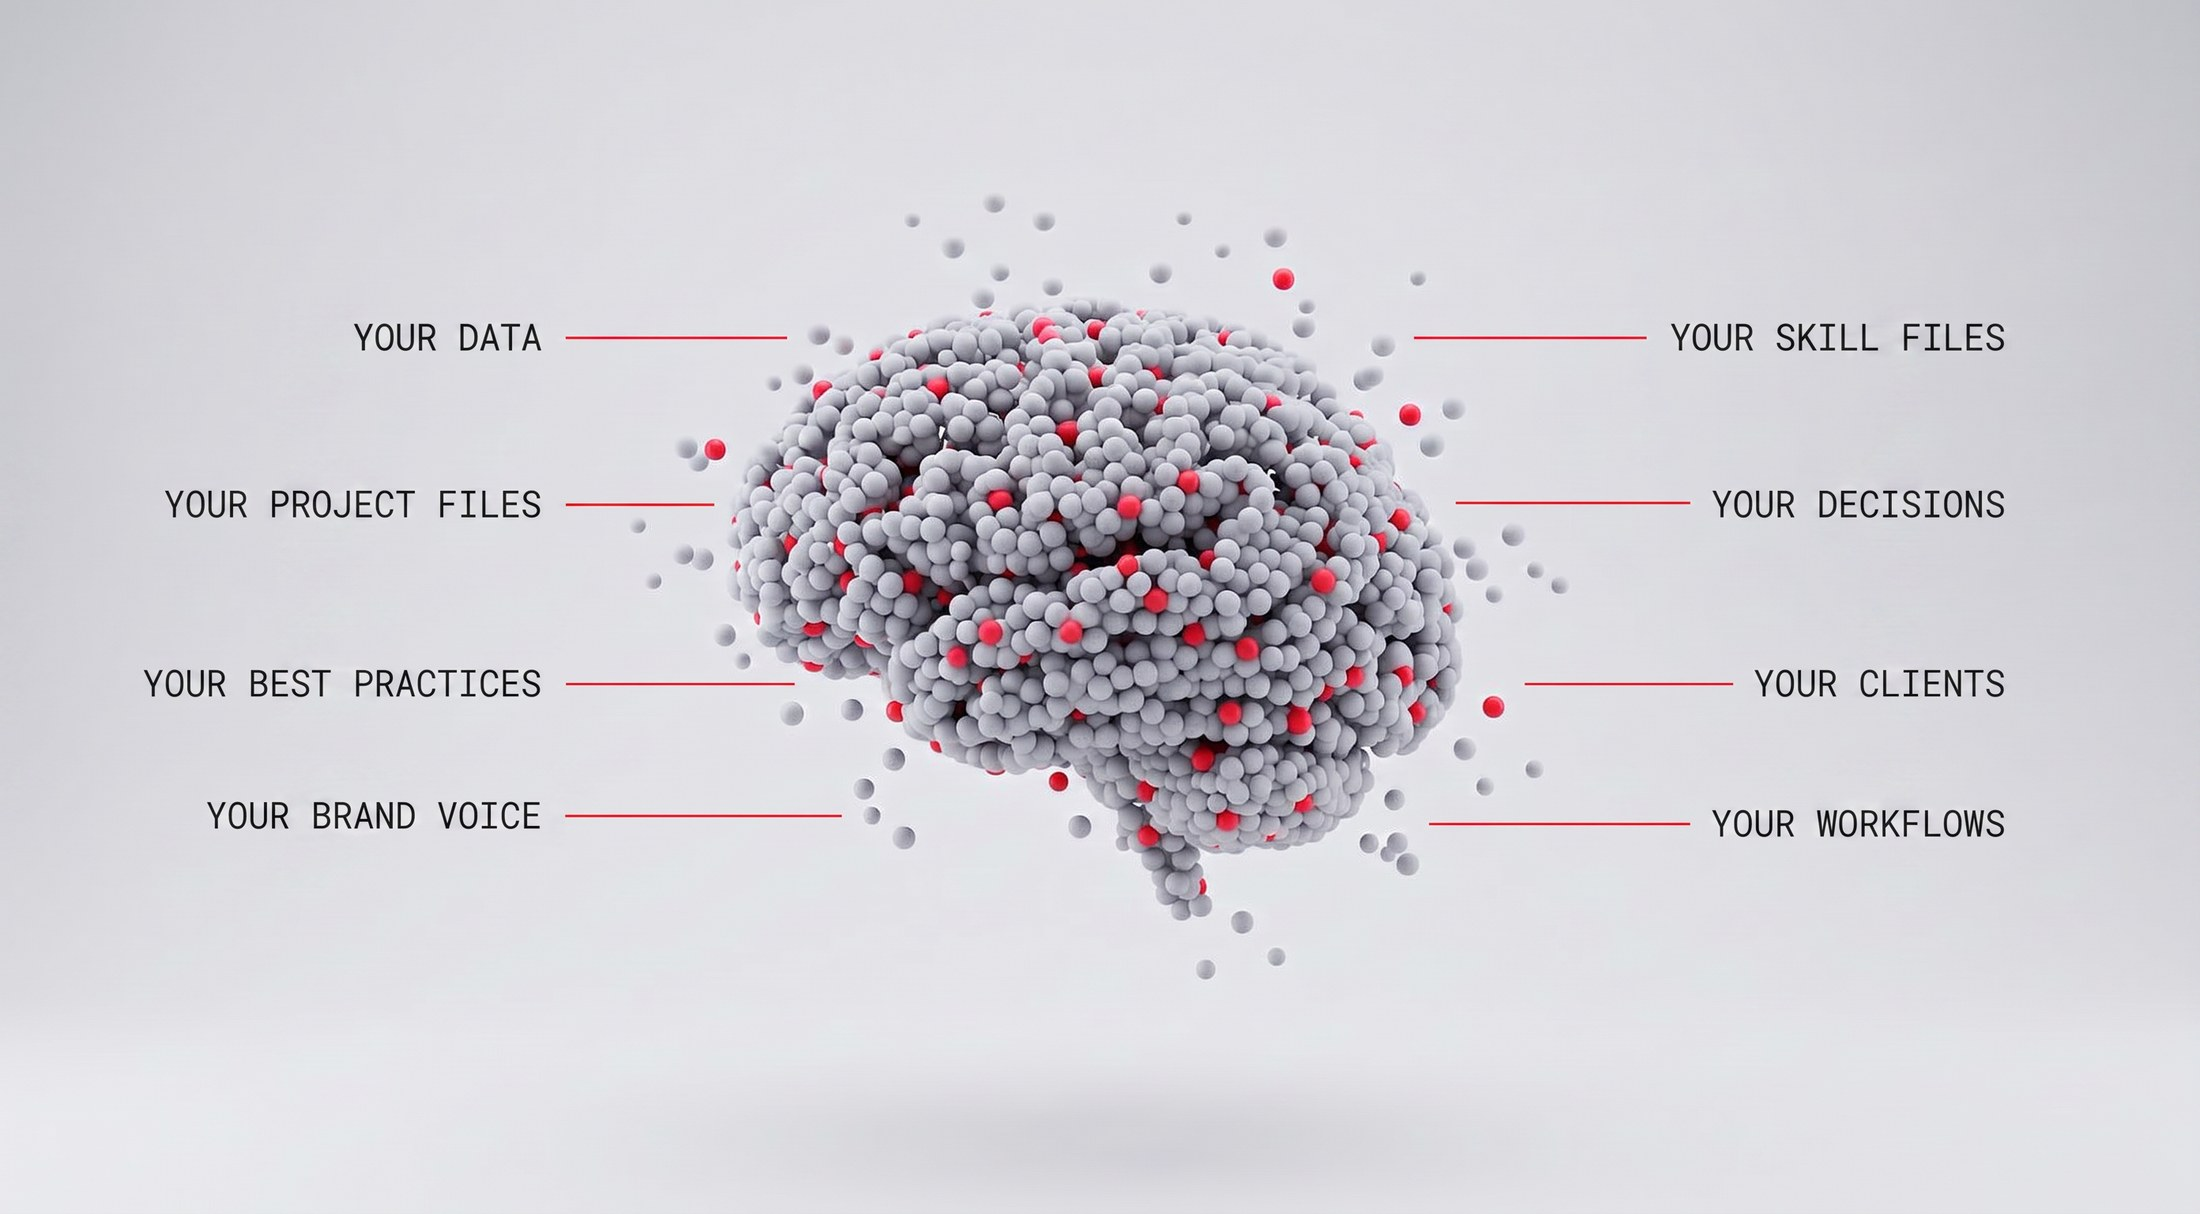
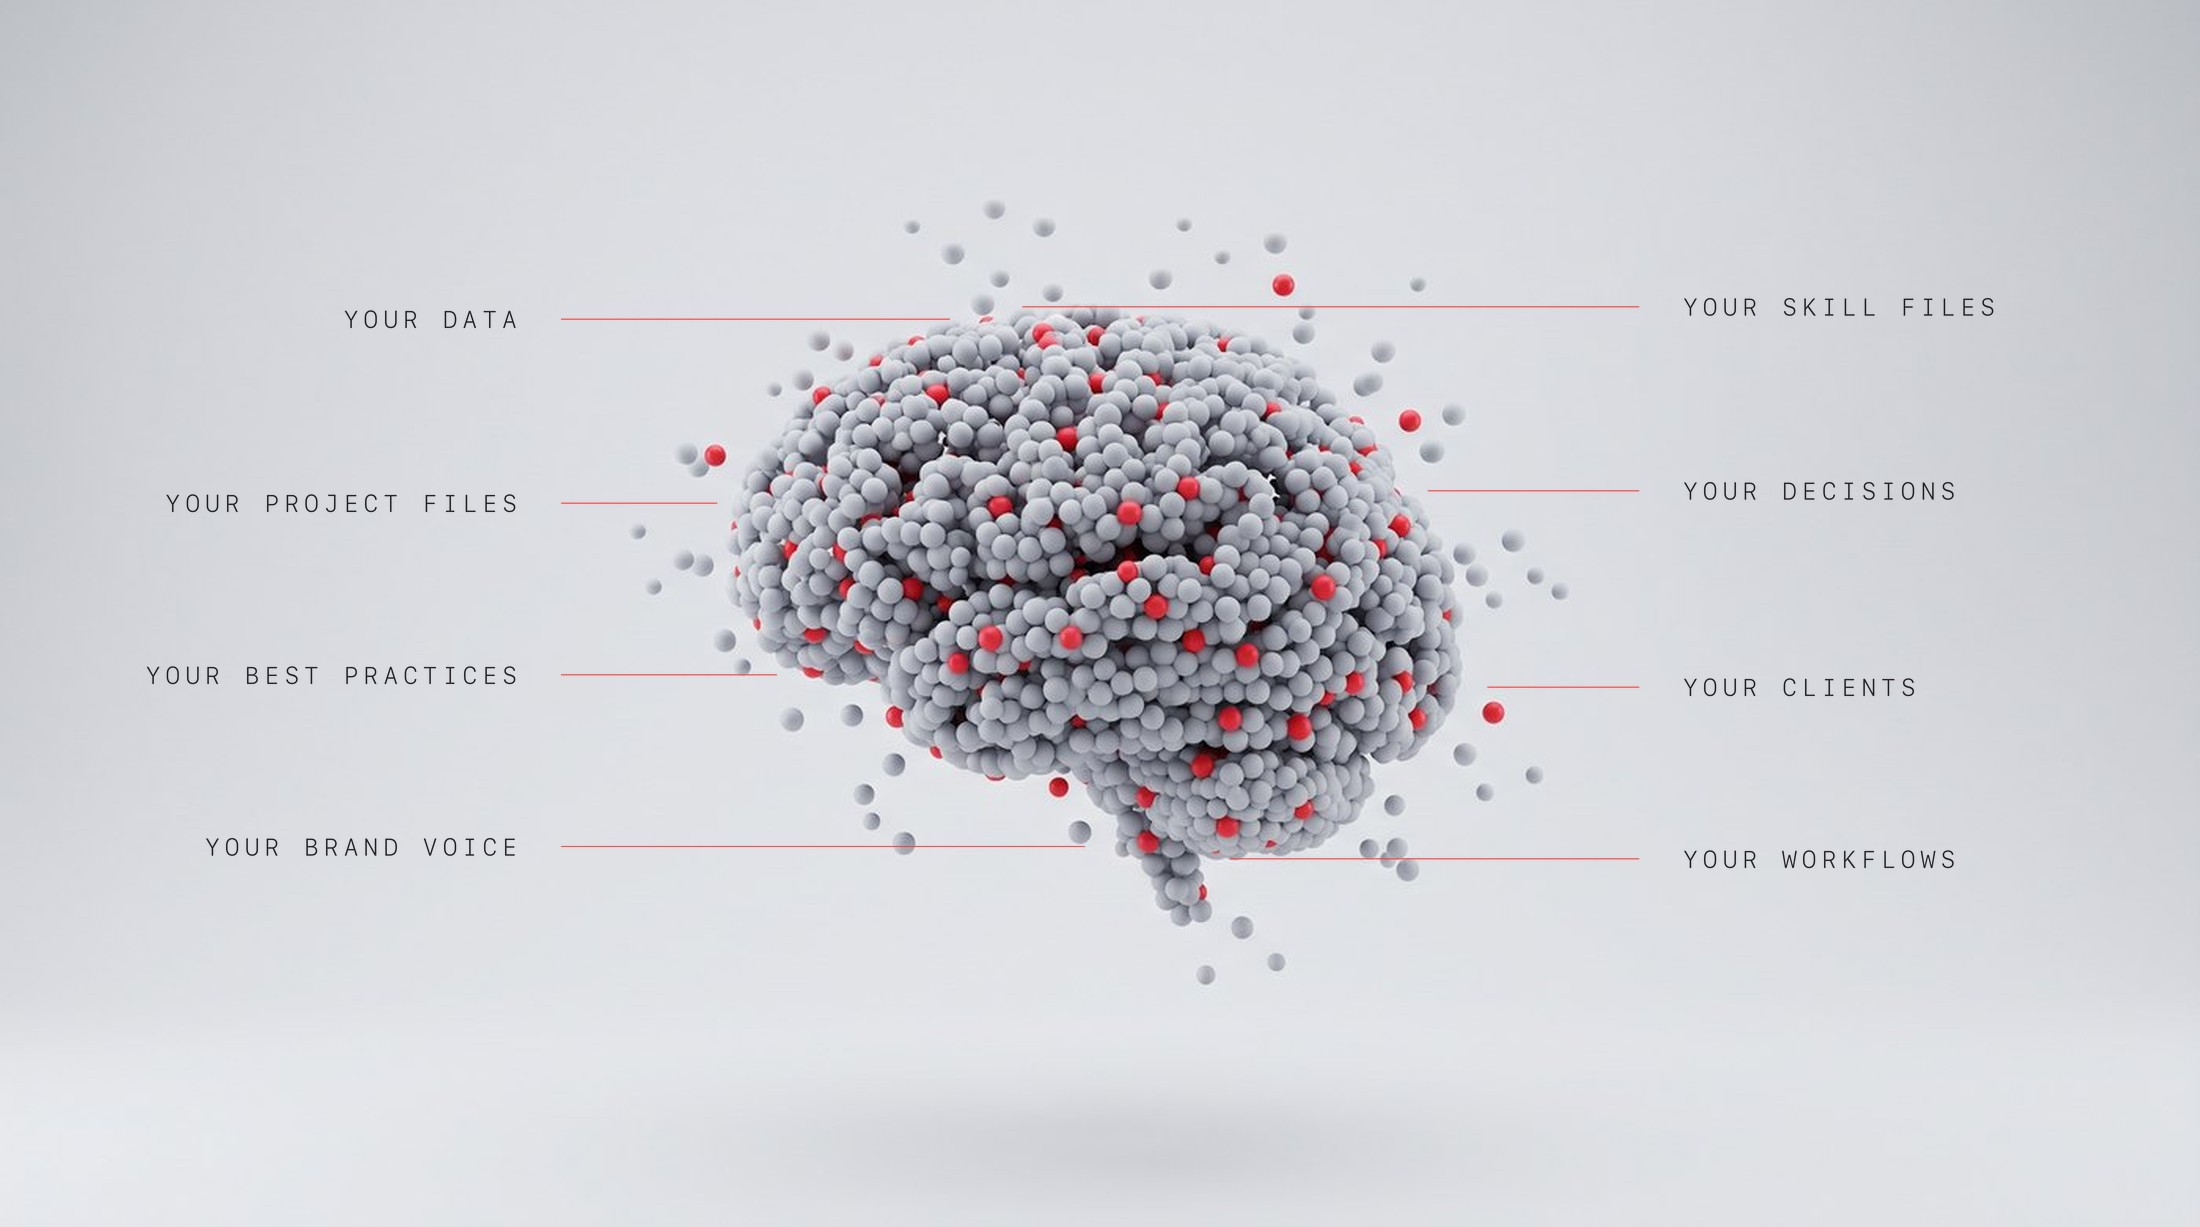
Finer callout type; phones get the plate plus a flow list
The labels are baked into the plate, so they cannot drift. Below 860px the
plate crops to 4:3 and baked type would be a few pixels tall, so that width
gets the uncropped-label-free plate and the eight terms as a normal-flow list.

Claude-Session: https://claude.ai/code/session_01YEyAAQJMi8VKLgH3Aa625y

diff --git a/index.html b/index.html
@@ -193,7 +193,16 @@
       </div>
       <p class="lede sys-lede reveal">The system keeps a long-term memory of your company: every project, every decision, every preference. <em>It learns how you work and gets sharper the longer it runs.</em></p>
       <figure class="plate brain-plate reveal">
-        <img src="assets/brain_cloud_labeled.jpg" alt="A brain shape formed from a floating cloud of small red and gray spheres, labelled: your data, your project files, your best practices, your brand voice, your skill files, your decisions, your clients, your workflows" width="2200" height="1214" loading="lazy">
+        <picture>
+          <source media="(max-width: 860px)" srcset="assets/brain_cloud.jpg">
+          <img src="assets/brain_cloud_labeled.jpg" alt="A brain shape formed from a floating cloud of small red and gray spheres, labelled: your data, your project files, your best practices, your brand voice, your skill files, your decisions, your clients, your workflows" width="2200" height="1227" loading="lazy">
+        </picture>
+        <ul class="brain-list mono" aria-hidden="true">
+          <li>your data</li><li>your skill files</li>
+          <li>your project files</li><li>your decisions</li>
+          <li>your best practices</li><li>your clients</li>
+          <li>your brand voice</li><li>your workflows</li>
+        </ul>
       </figure>
       <div class="why-facts brain-facts reveal">
         <div><strong>Context that stays</strong>Ask about a project from last year and get the full picture.</div>

diff --git a/style.css b/style.css
@@ -515,8 +515,25 @@ footer .cross-card.cross-last { margin-top: 60px; border-color: rgba(227,174,67,
   mask-image: linear-gradient(180deg, #000 45%, transparent);
 }
 
-/* brain plate: the leader lines and labels are rendered into the image itself */
+/* brain plate: the leader lines and labels are rendered into the image itself.
+   Below 860px the plate crops to 4:3 and that baked type would be a few pixels
+   tall, so the phone gets the clean plate plus this list — in normal flow, so
+   nothing can drift. */
 .brain-plate { position: relative; }
+.brain-list { display: none; }
+@media (max-width: 860px) {
+  .brain-list {
+    display: grid; grid-template-columns: 1fr 1fr; gap: 9px 18px;
+    list-style: none; margin: 0; padding: 18px 6vw 20px;
+    border-top: 1px solid var(--line);
+    font-size: 9px; letter-spacing: 0.1em; text-transform: uppercase;
+    color: rgba(232, 228, 240, 0.66);
+  }
+  .brain-list li { display: flex; align-items: center; gap: 8px; white-space: nowrap; }
+  .brain-list li::before {
+    content: ""; flex: none; width: 14px; height: 1px; background: var(--red);
+  }
+}
 
 /* short bio at the very bottom */
 .bio-note { margin-top: 56px; max-width: 62ch; }
